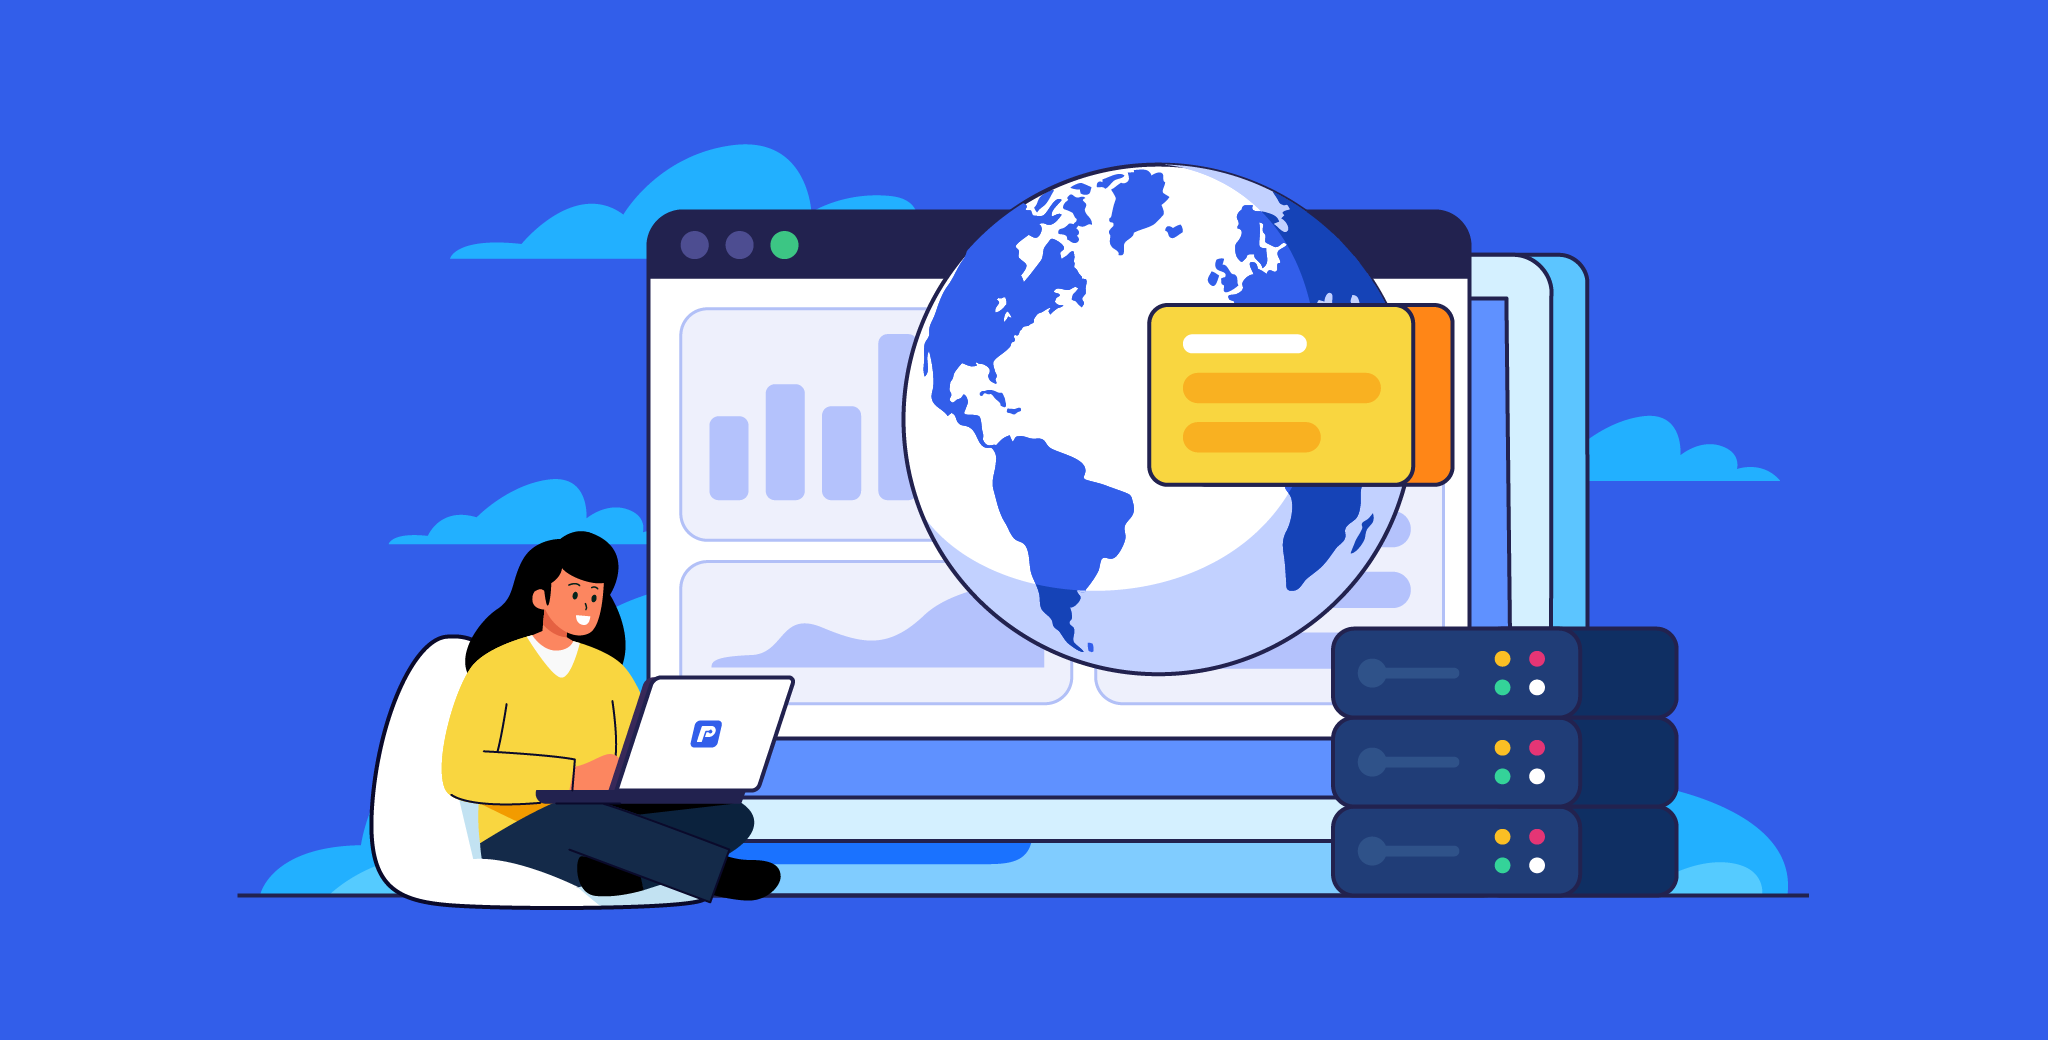
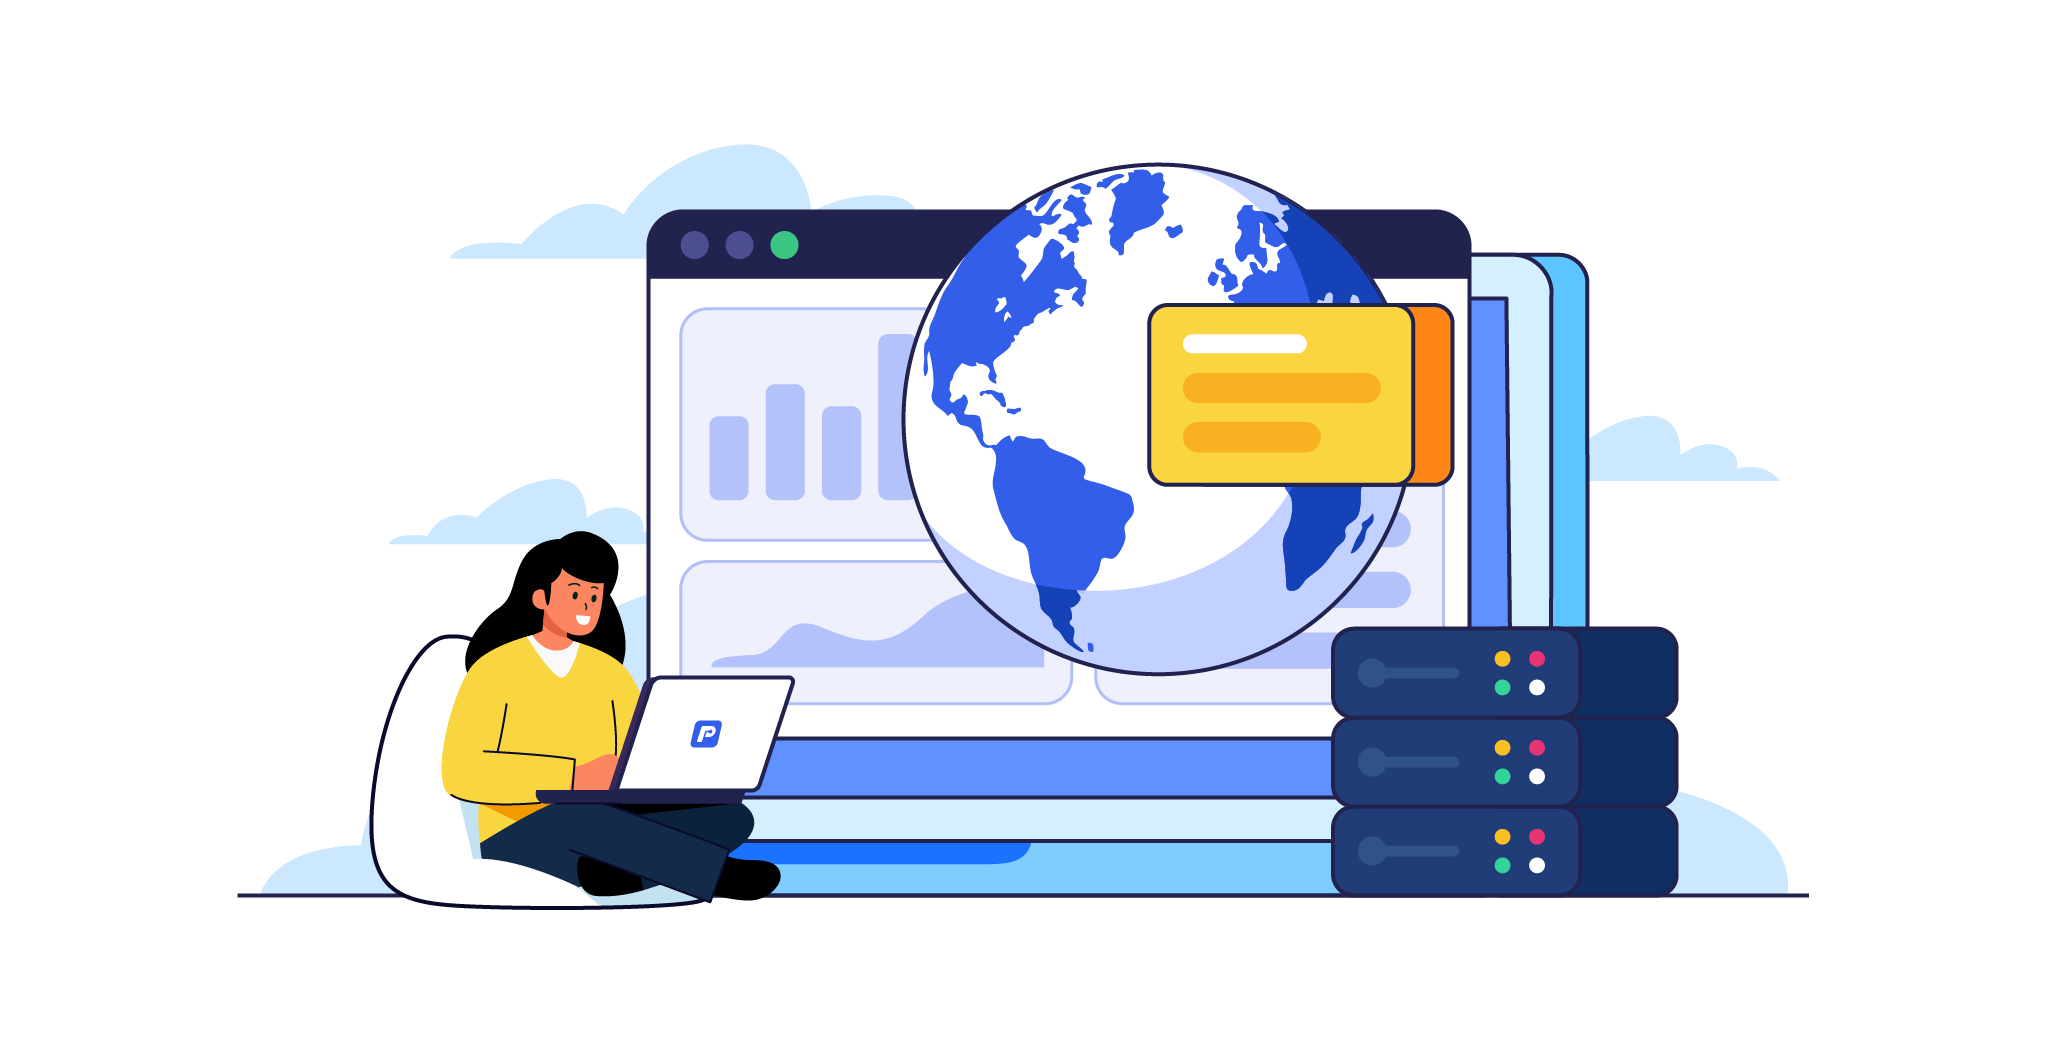
update

diff --git a/linkdb.html b/linkdb.html
@@ -423,7 +423,7 @@
             </h1>
 
             <!-- Image -->
-            <img src="assets/img/illustrations/linkdbglobal2.png" alt="map" class="img-fluid mb-9 mb-md-10">         
+            <img src="assets/img/illustrations/linkdbglobal.png" alt="map" class="img-fluid mb-9 mb-md-10">         
             
           </div>
         </div> <!-- / .row -->        
